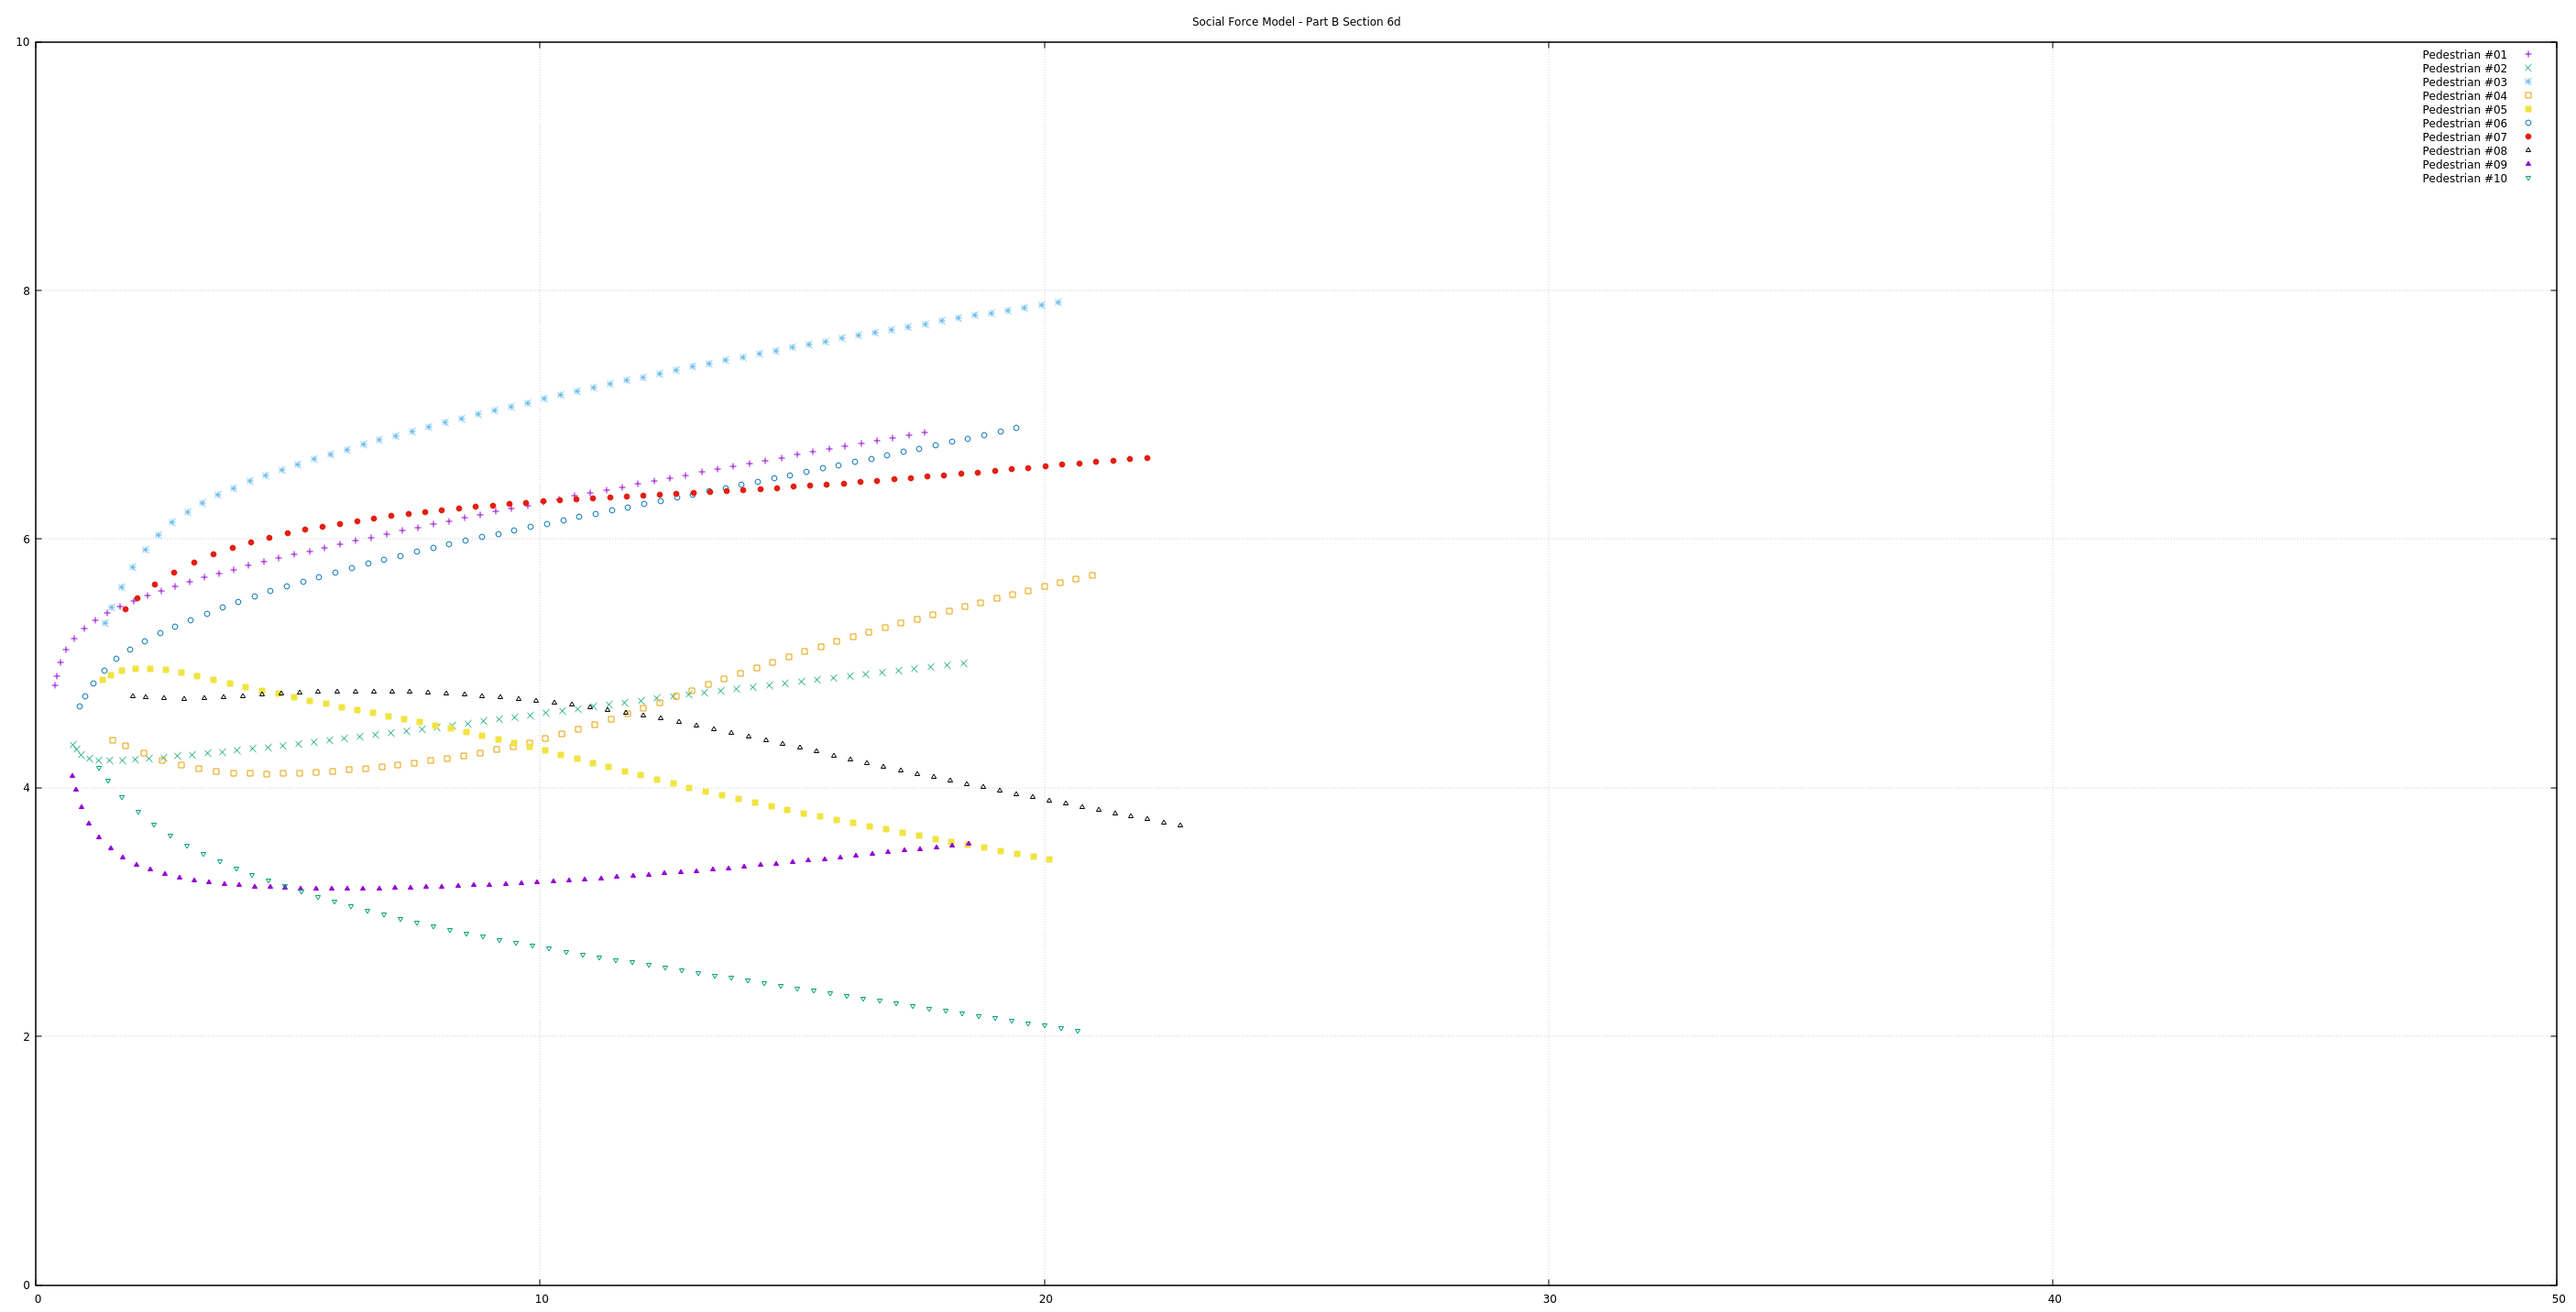
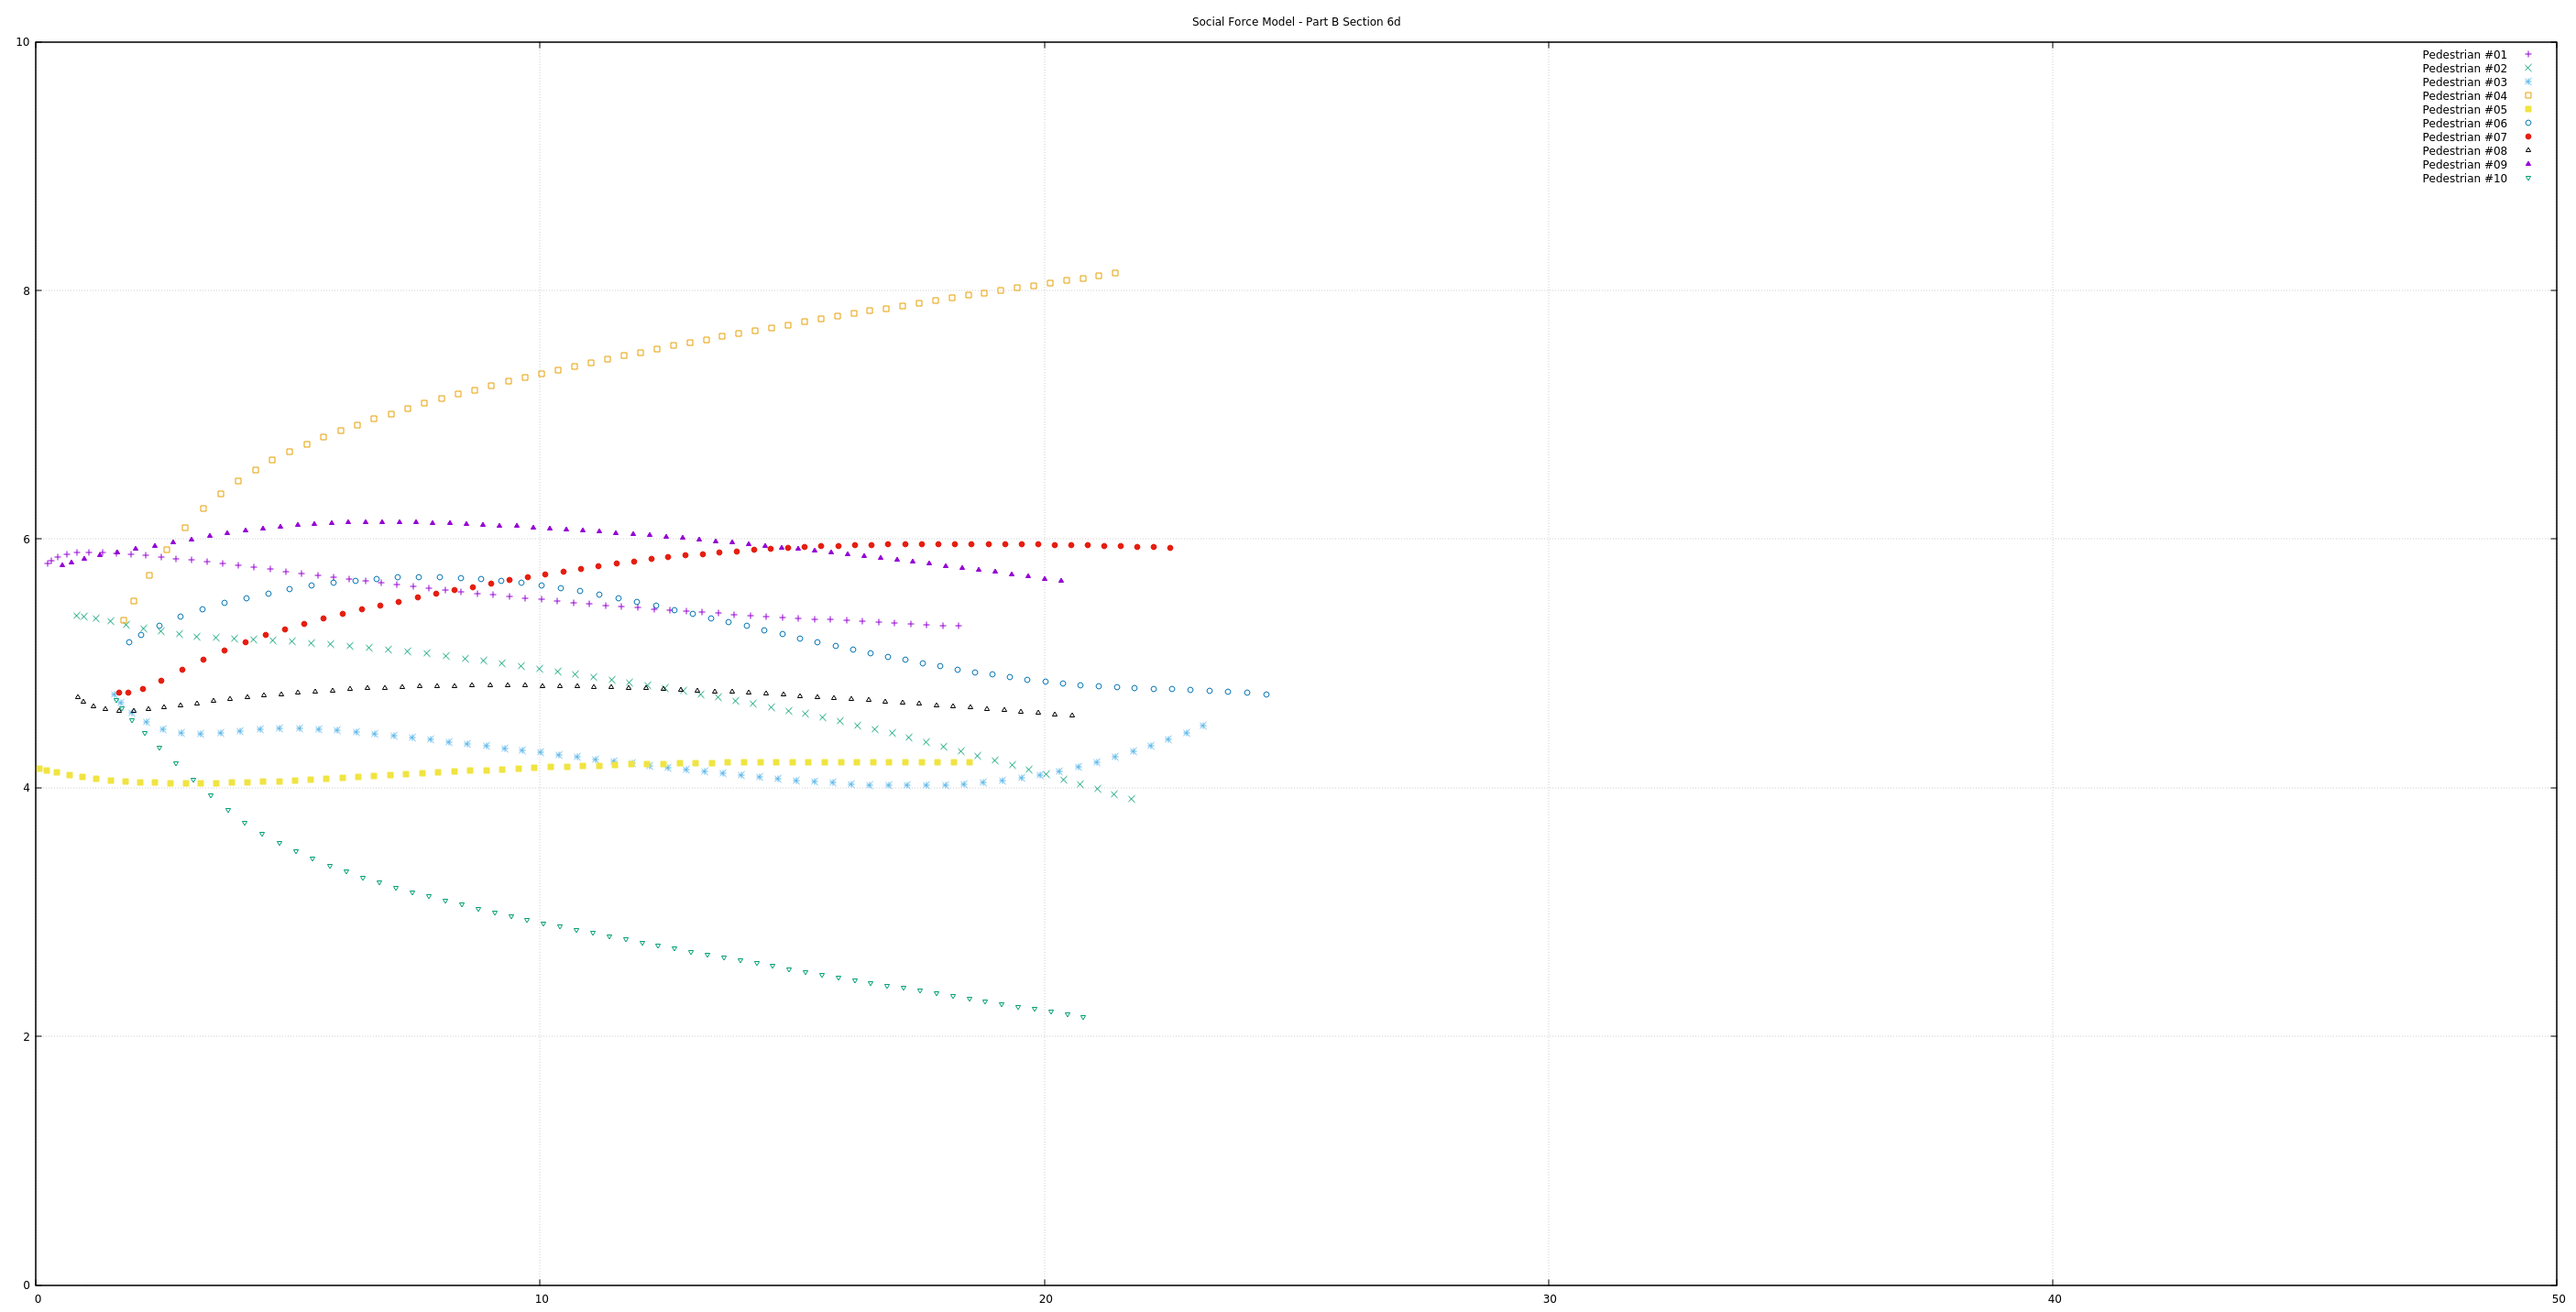
Enhanced Pos2d testing. Bug fix in Pos2d '-' operator, which required changes elsewhere.

diff --git a/Testing/sfmTypesTest.cpp b/Testing/sfmTypesTest.cpp
@@ -18,18 +18,12 @@
 #include "sfmCatchMain.h"
 #include "sfmTypes.h"
 
-//#include <iostream>
-//#include <vector>
-//#include <algorithm>
-//#include <cmath>
-//#include <limits>
 
 // Convenience variables.
 double full_world_x {POS2D_XWRAP};
 double full_world_y {POS2D_YWRAP};
 double half_world_x {POS2D_XWRAP / 2.0};
 double half_world_y {POS2D_YWRAP / 2.0};
-
 
 TEST_CASE("Pos2d constructor", "[Pos2d]") {
 
@@ -116,11 +110,80 @@ TEST_CASE("Pos2d - operator", "[Pos2d]") {
   sfm::Vec2d v;
   
   v = full_world - half_world;
+  REQUIRE(v.GetXLength() == half_world_x);
+  REQUIRE(v.GetYLength() == half_world_y);
+
+  v = half_world - full_world;
   REQUIRE(v.GetXLength() == -1.0 * half_world_x);
   REQUIRE(v.GetYLength() == -1.0 * half_world_y);
 
-  v = half_world - full_world;
-  REQUIRE(v.GetXLength() == half_world_x);
-  REQUIRE(v.GetYLength() == half_world_y);
+}
+
+TEST_CASE("Vec2d constructor", "[Vec2d]") {
+
+  sfm::Vec2d v_zero;
+  REQUIRE(typeid(v_zero) == typeid(sfm::Vec2d));
+  REQUIRE(v_zero.GetXLength() == 0.0);
+  REQUIRE(v_zero.GetYLength() == 0.0);
+
+  sfm::Vec2d x_unit(1.0, 0.0);
+  REQUIRE(typeid(x_unit) == typeid(sfm::Vec2d));
+  REQUIRE(x_unit.GetXLength() == 1.0);
+  REQUIRE(x_unit.GetYLength() == 0.0);
+
+  sfm::Vec2d y_unit(0.0, 1.0);
+  REQUIRE(typeid(y_unit) == typeid(sfm::Vec2d));
+  REQUIRE(y_unit.GetXLength() == 0.0);
+  REQUIRE(y_unit.GetYLength() == 1.0);
+
+  sfm::Vec2d xy_ones(1.0, 1.0);
+  REQUIRE(typeid(xy_ones) == typeid(sfm::Vec2d));
+  REQUIRE(xy_ones.GetXLength() == 1.0);
+  REQUIRE(xy_ones.GetYLength() == 1.0);
+
+  sfm::Vec2d xy_negative_ones(-1.0, -1.0);
+  REQUIRE(typeid(xy_ones) == typeid(sfm::Vec2d));
+  REQUIRE(xy_negative_ones.GetXLength() == -1.0);
+  REQUIRE(xy_negative_ones.GetYLength() == -1.0);
+
+}
+
+TEST_CASE("Vec2d +/- operators", "[Vec2d]") {
+
+  sfm::Vec2d a(3.0, 0.0);
+  sfm::Vec2d b(0.0, 4.0);
+  sfm::Vec2d c;
+
+  c = a + b;
+  REQUIRE(c.Length() == 5.0);
+  REQUIRE(c.GetXLength() == 3.0);
+  REQUIRE(c.GetYLength() == 4.0);
+
+  c = c - a;
+  REQUIRE(c.Length() == 4.0);
+  REQUIRE(c.GetXLength() == 0.0);
+  REQUIRE(c.GetYLength() == 4.0);
+
+  c = c - b;
+  REQUIRE(c.Length() == 0.0);
+  REQUIRE(c.GetXLength() == 0.0);
+  REQUIRE(c.GetYLength() == 0.0);
+
+}
+
+TEST_CASE("Vec2d * operator", "[Vec2d]") {
+
+  sfm::Vec2d a(3.0, 4.0);
+  REQUIRE(a.Length() == 5.0);
+
+  a = a * 2.0;
+  REQUIRE(a.Length() == 10.0);
+  REQUIRE(a.GetXLength() == 6.0);
+  REQUIRE(a.GetYLength() == 8.0);
+  
+  a = a * -0.5;
+  REQUIRE(a.Length() == 5.0);
+  REQUIRE(a.GetXLength() == -3.0);
+  REQUIRE(a.GetYLength() == -4.0);
 
 }

diff --git a/Code/Lib/sfmForces.cpp b/Code/Lib/sfmForces.cpp
@@ -15,8 +15,8 @@
 =============================================================================*/
 
 #include "sfmTypes.h"
-#include "sfmPedestrian.h"
 #include "sfmForces.h"
+#include "sfmPedestrian.h"
 
 #include <cmath>
 #include <memory>
@@ -43,7 +43,7 @@ namespace sfm {
     double v {o->GetVelocity().Length()};
     double b {B(r, e, v, dt)};
     Vec2d direction {r * (1.0 / r.Length())};
-    return direction * GradV(b);
+    return direction * GradV(b) * -1.0;
   }
 
   double GradU(Vec2d r) {
@@ -55,7 +55,7 @@ namespace sfm {
   Vec2d PedestrianBorderForce(std::shared_ptr<Pedestrian> p, double y) {
     Vec2d r {p->GetPosition() - Pos2d(p->GetPosition().GetX(), y)};
     Vec2d direction {r * (1.0 / r.Length())};
-    return direction * GradU(r);
+    return direction * GradU(r) * -1.0;
   }
  
   Vec2d ResultantForce(std::shared_ptr<Pedestrian> p,

diff --git a/Code/Lib/sfmTypes.cpp b/Code/Lib/sfmTypes.cpp
@@ -36,7 +36,7 @@ namespace sfm { // Start namespace.
   }
 
   Vec2d Vec2d::operator-(Vec2d v) {
-    return Vec2d(x_length + v.x_length, y_length + v.y_length) * -1.0;
+    return Vec2d(x_length - v.x_length, y_length - v.y_length);
   }
 
   Vec2d Vec2d::operator*(double scaling_factor) {
@@ -70,7 +70,7 @@ namespace sfm { // Start namespace.
   }
 
   Vec2d Pos2d::operator-(Pos2d p) {
-    return Vec2d(p.x - x, p.y - y);
+    return Vec2d(x - p.x, y - p.y);
   }
 
   double Pos2d::GetX(void) {

diff --git a/Code/CommandLineApps/sfmPartASection4App.cpp b/Code/CommandLineApps/sfmPartASection4App.cpp
@@ -57,7 +57,7 @@ int main(int argc, char** argv)
   std::cout << std::endl;
 
   // Time loop.
-  double finish_time_s {50.0};
+  double finish_time_s {40.0};
   double dt {0.25};
   for (auto t = dt; t < finish_time_s + dt; t += dt) {
     std::cout << t;

diff --git a/Code/Lib/sfmPedestrianSpawner.h b/Code/Lib/sfmPedestrianSpawner.h
@@ -17,6 +17,8 @@
 #ifndef sfmPedestrianSpawner_h
 #define sfmPedestrianSpawner_h
 
+#include "sfmWin32ExportHeader.h"
+
 #include "sfmTypes.h"
 #include "sfmPedestrian.h"
 #include "sfmTargetedPedestrian.h"

diff --git a/Code/Lib/sfmDirectionalPedestrian.h b/Code/Lib/sfmDirectionalPedestrian.h
@@ -17,6 +17,8 @@
 #ifndef sfmDirectionalPedestrian_h
 #define sfmDirectionalPedestrian_h
 
+#include "sfmWin32ExportHeader.h"
+
 #include "sfmTypes.h"
 #include "sfmPedestrian.h"
 

diff --git a/Code/Lib/sfmTargetedPedestrian.h b/Code/Lib/sfmTargetedPedestrian.h
@@ -17,6 +17,8 @@
 #ifndef sfmTargetedPedestrian_h
 #define sfmTargetedPedestrian_h
 
+#include "sfmWin32ExportHeader.h"
+
 #include "sfmTypes.h"
 #include "sfmPedestrian.h"
 

diff --git a/Code/Lib/sfmForces.h b/Code/Lib/sfmForces.h
@@ -17,6 +17,8 @@
 #ifndef sfmForces_h
 #define sfmForces_h
 
+#include "sfmWin32ExportHeader.h"
+
 #include "sfmTypes.h"
 #include "sfmPedestrian.h"
 

diff --git a/Code/Lib/sfmTypes.h b/Code/Lib/sfmTypes.h
@@ -17,6 +17,8 @@
 #ifndef sfmTypes_h
 #define sfmTypes_h
 
+#include "sfmWin32ExportHeader.h"
+
 #ifndef POS2D_XWRAP
 #define POS2D_XWRAP 50.0
 #endif

diff --git a/Code/Lib/sfmPedestrian.h b/Code/Lib/sfmPedestrian.h
@@ -17,6 +17,8 @@
 #ifndef sfmPedestrian_h
 #define sfmPedestrian_h
 
+#include "sfmWin32ExportHeader.h"
+
 #include "sfmTypes.h"
 
 

diff --git a/Code/CommandLineApps/sfmPartBSection6eApp.cpp b/Code/CommandLineApps/sfmPartBSection6eApp.cpp
@@ -23,7 +23,6 @@
 
 #include <iostream>
 #include <memory>
-#include <random>
 #include <vector>
 
 
